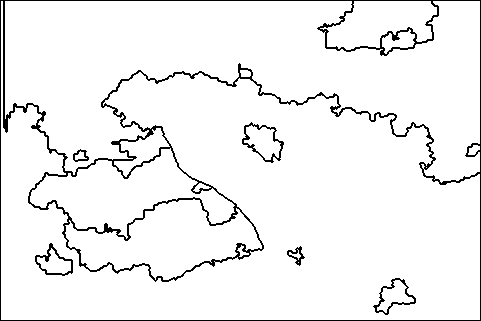
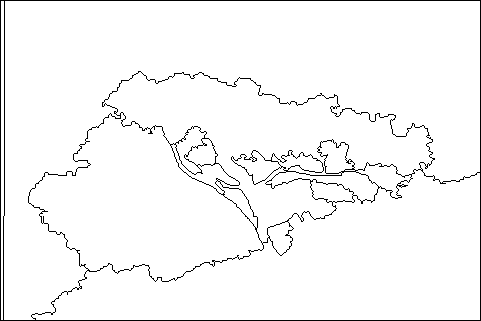
Working well! Finished!

diff --git a/MOEA/MOEA/global.h b/MOEA/MOEA/global.h
@@ -34,7 +34,7 @@ const std::string WRITE_PATH = "..//Segmentation_Evaluation//178054_student//"; 
 */
 
 // Circle - Completely satisfied, do not touch!
-
+/*
 const int N_IND = 20;
 const int N_OFFSPRING = 10;
 const int N_GENERATIONS = 60; // with 600 N_SMALL_SEGMENT -> 43 gives 69.73%
@@ -47,7 +47,7 @@ const std::string img_path  = "..//test_img//86016//Test image.jpg"; // circle
 const std::string WRITE_PATH = "..//Segmentation_Evaluation//86016_student//";
 const bool MOEA_NOT_WGA = true;
 const double WEIGHT_OD = 1;
-const double WEIGHT_EV = 100000;
+const double WEIGHT_EV = 100000;*/
 
 
  // Tiger // N_GENERATIONS = 3, N_SMALL_SEGMENT = 300, SMALL_SEGMENT_SIZE = 400, AVG_RGB_SEG = 70, AVG_RGB_BORDER = 100 -> 67.64%
@@ -157,6 +157,32 @@ const double WEIGHT_EV = 100;
 const bool MOEA_NOT_WGA = false;
 */
 
+// Tree - weighted GA
+
+//const int N_IND = 30;
+//const int N_OFFSPRING = 10;
+//const int N_GENERATIONS = 100;
+//const int SMALL_SEGMENT_SIZE = 100;  // 50
+//const int N_SMALL_SEGMENT = 400; // 1000
+
+//
+const int N_IND = 10;
+const int N_OFFSPRING = 10;
+const int N_GENERATIONS = 10;
+const int SMALL_SEGMENT_SIZE = 500;  // 50
+const int N_SMALL_SEGMENT = 300; // 1000
+const int N_MERGE_SMALL_SEGMENT = 0; // 30
+const int AVG_RGB_SEG_DEST_CRITERIA = 70;
+const int AVG_RGB_BORDER_DEST_CRITERIA = 100;
+
+
+const std::string img_path = "..//test_img//Test Image//test image_1.jpg";
+const std::string WRITE_PATH = "..//Segmentation_Evaluation//1_student//";
+const double WEIGHT_OD = 1;
+const double WEIGHT_EV = 0;
+const bool MOEA_NOT_WGA = false;
+//*/
+
 //const std::string img_path = "..//test_img//147091//Test image.jpg"; // three
 //const std::string WRITE_PATH = "..//Segmentation_Evaluation//147091_student//"; 
 //const std::string img_path  = "..//test_img//160068//Test image.jpg"; // Leopart
@@ -168,20 +194,6 @@ const bool MOEA_NOT_WGA = false;
 //const std::string img_path  = "..//test_img//353013//Test image.jpg"; // blomst
 //const std::string WRITE_PATH = "..//Segmentation_Evaluation//353013_student//"; // 
 
-
-/*
-const int N_IND = 10;
-const int N_OFFSPRING = 10;
-const int N_GENERATIONS = 10;
-const int SMALL_SEGMENT_SIZE = 500;  // 50
-const int N_SMALL_SEGMENT = 300; // 1000
-const int N_MERGE_SMALL_SEGMENT = 0; // 30
-const int AVG_RGB_SEG_DEST_CRITERIA = 70;
-const int AVG_RGB_BORDER_DEST_CRITERIA = 100;
-const bool MOEA_NOT_WGA = true;
-const double WEIGHT_OD = 1;
-const double WEIGHT_EV = 1;
-*/
 
 
 

diff --git a/MOEA/MOEA/population.cpp b/MOEA/MOEA/population.cpp
@@ -1303,10 +1303,12 @@ void Population::draw_pareto_front() {
 			//std::cout << " num segments" << segment_prop[rank[i].second].size() << std::endl;
 			cv::Mat img = draw_segments_black_contour_from_prop(rank[i].second);
 			write_image_to_file(rank[i].second, img);
+			img = draw_segments_green_contour_from_prop(rank[i].second);
+			write_image_to_file(rank[i].second+100, img);
 			//std::string window_name = "contour from prop " + to_string(rank[i].second);
 			//cv::namedWindow(window_name, 1);
 			//cv::imshow(window_name, img);
-			std::cout << "Fitness: " << fitness_1[rank[i].second].first << ", " << fitness_2[rank[i].second].first << std::endl;
+			std::cout <<"Individual: " << rank[i].second << ", Fitness: " << fitness_1[rank[i].second].first << ", " << fitness_2[rank[i].second].first <<", Num segments: " << segment_prop[rank[i].second].size()<<  std::endl;
 			if (best_fitness_1 > fitness_1[rank[i].second].first) best_fitness_1 = fitness_1[rank[i].second].first;
 			if (best_fitness_2 > fitness_2[rank[i].second].first) best_fitness_2 = fitness_2[rank[i].second].first;
 		}
@@ -1369,8 +1371,13 @@ void Population::draw_fitness_top() {
 		int ind_index = weighted_fitness[i].second;
 		cv::Mat img = draw_segments_black_contour_from_prop(ind_index);
 		write_image_to_file(ind_index, img);
+
+		img = draw_segments_green_contour_from_prop(rank[i].second);
+		write_image_to_file(rank[i].second + 100, img);
+
 		std::cout << "Fitness of individual: " << weighted_fitness[i].first << std::endl;
 		std::cout << "F1: " << fitness_1[weighted_fitness[i].second].first << ", F2: " << fitness_2[weighted_fitness[i].second].first << std::endl;
+		std::cout << " Num segments: " << segment_prop[ind_index].size() << std::endl;
 		//std::string window_name = "contour from prop " + to_string(rank[i].second);
 		//cv::namedWindow(window_name, 1);
 		//cv::imshow(window_name, img);

diff --git a/MOEA/Segmentation_Evaluation/run.py b/MOEA/Segmentation_Evaluation/run.py
@@ -4,8 +4,8 @@ import numpy as np
 from fileReader import readImage
 from fileReader import readTextFile
 
-optimalFolder = "86016" # you may have to specify the complete path
-studentFolder = "86016_student" # you may have to specify the complete path
+optimalFolder = "1" # you may have to specify the complete path
+studentFolder = "1_student" # you may have to specify the complete path
 colorValueSlackRange = 40
 blackValueThreshold = 100 # colors below 100 is black
 pixelRangeCheck = 4
